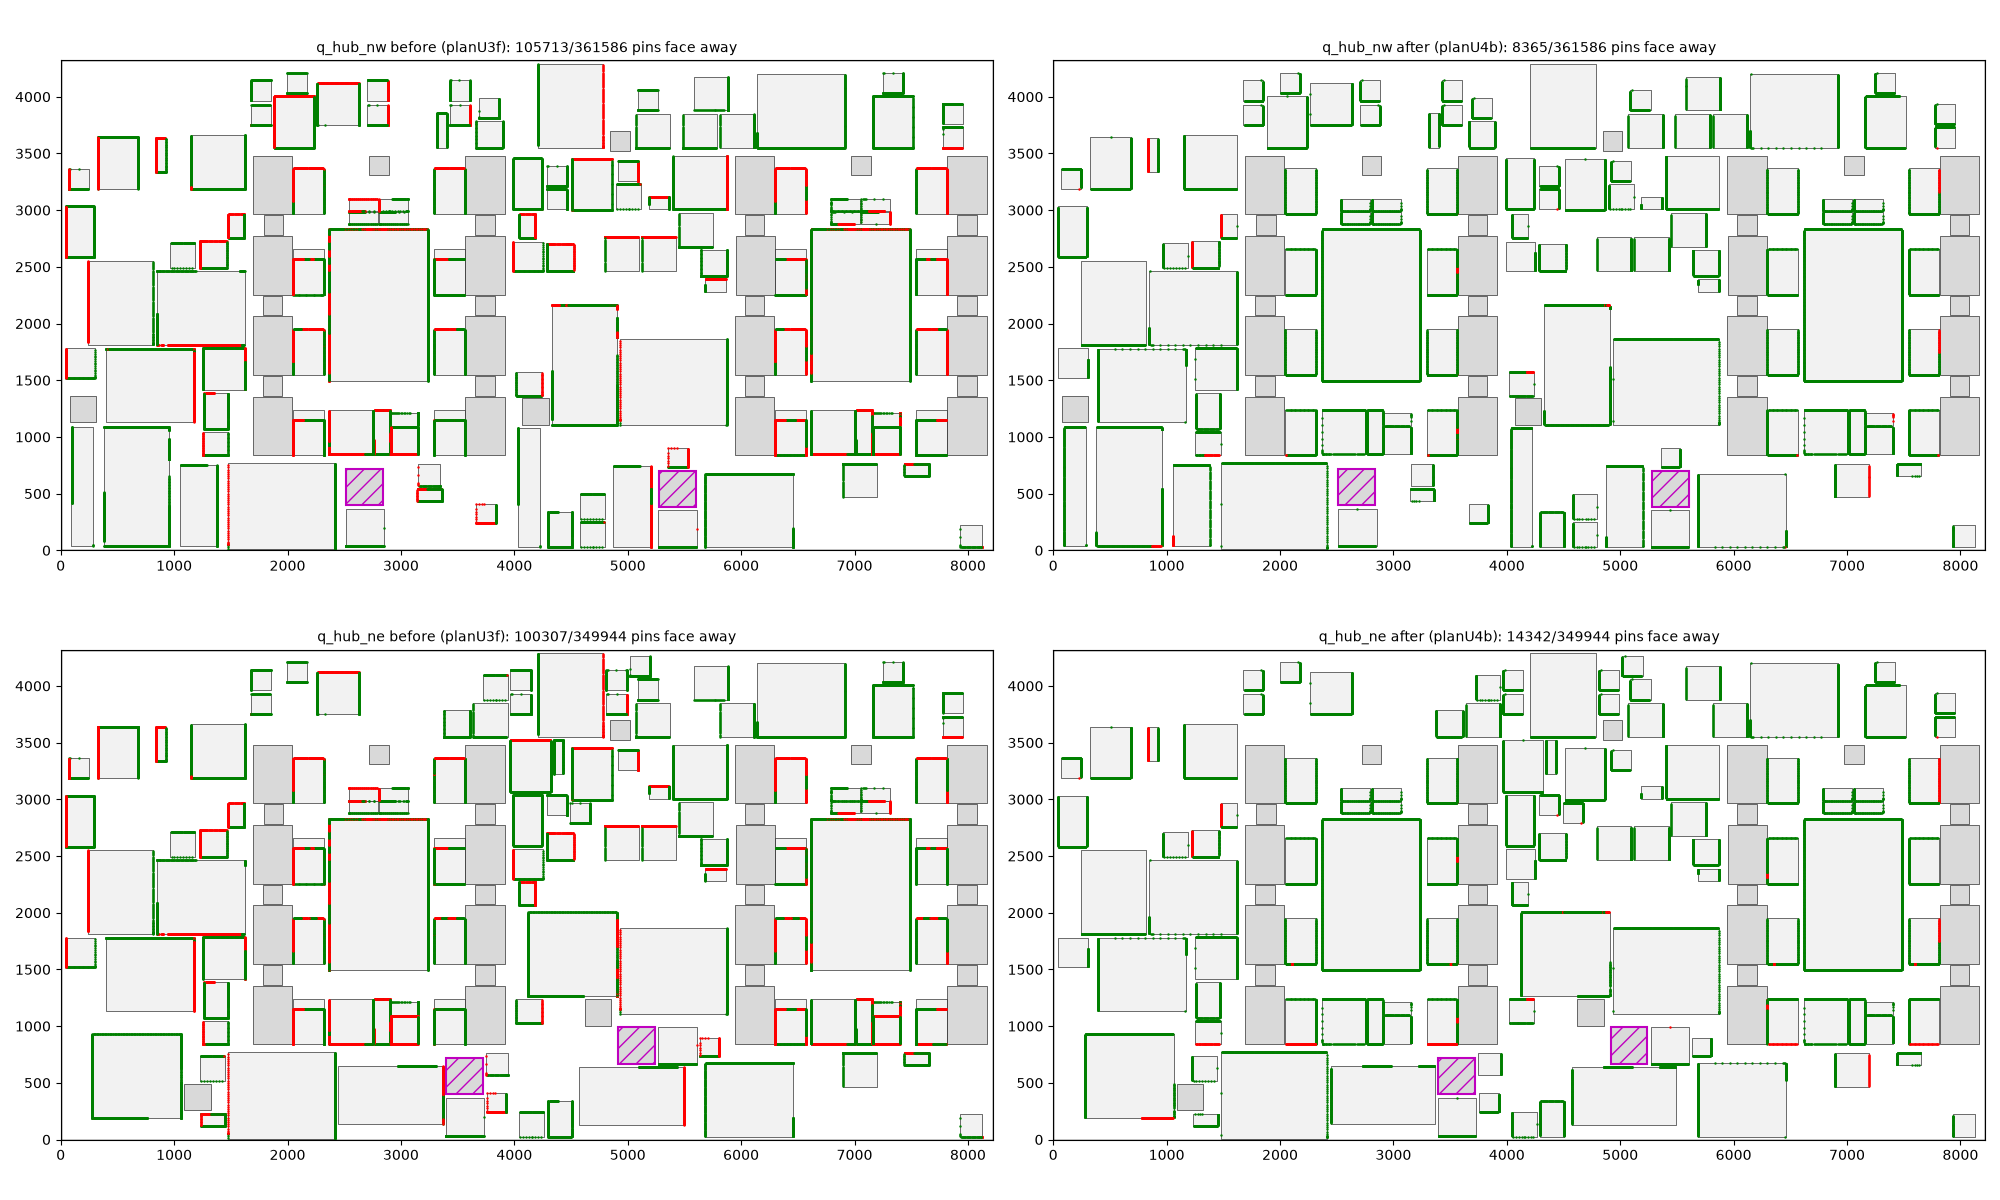
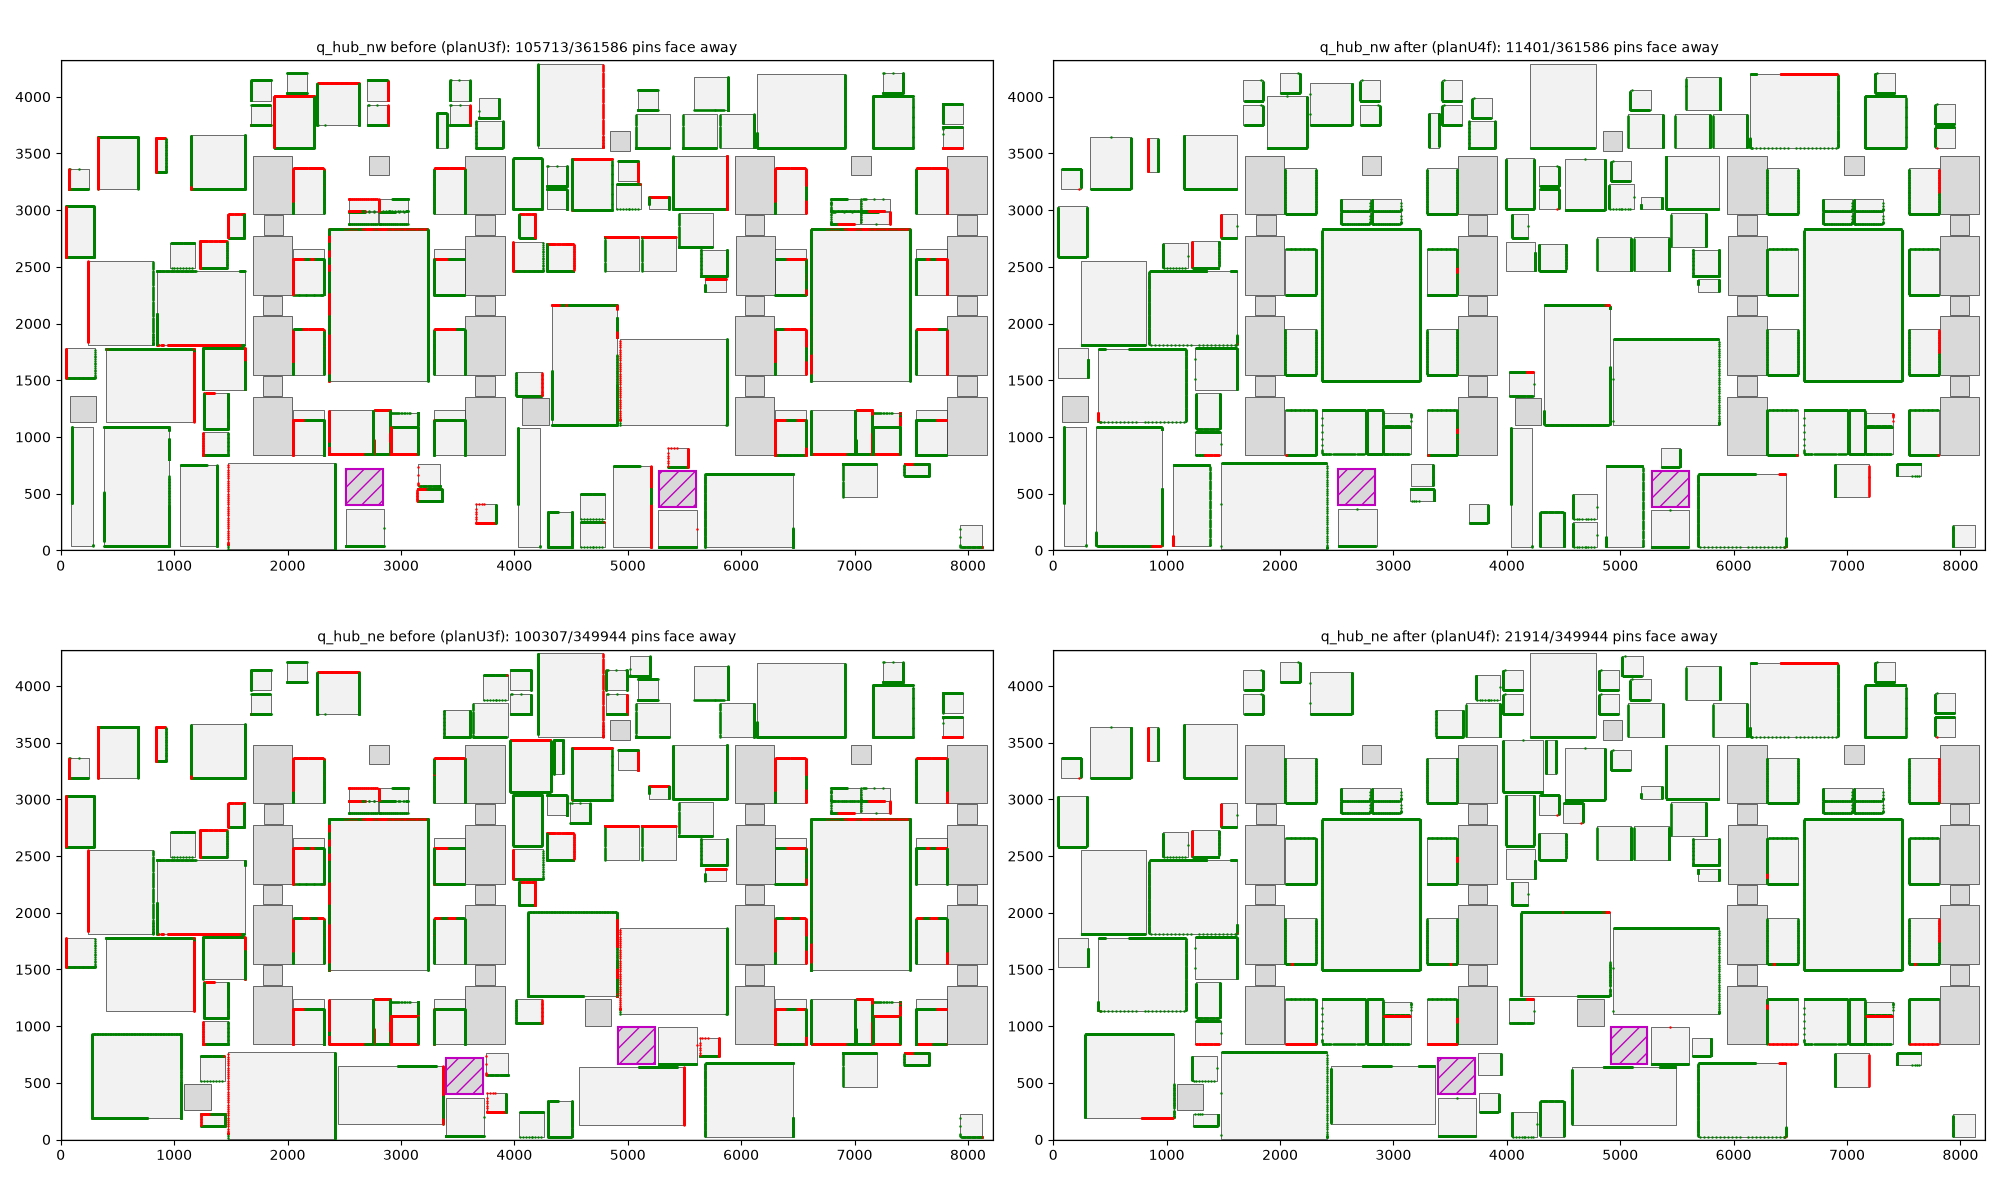
HBM-MU-QUAD-4: planU4f: strap pins at exact width, mirrors only on whole-pitch sides (0 off-grid orients); hub render U4f

Changed region(s): [[0.651, 0.5242, 0.868, 0.555], [0.651, 0.0308, 0.868, 0.0617]]

diff --git a/results/hbm_mu_quad_4/type_reduce.py b/results/hbm_mu_quad_4/type_reduce.py
@@ -392,7 +392,17 @@ def main():
             for lp, v in dirs.get((tn, hc["inst"]), {}).items():
                 d.setdefault(cport(hc["module"], base(lp)), []).extend(v)
             idirs.append(d)
+        # strap_* ID pins of the canonical (tied at the parent): exact width on the core face (rule B)
+        strap_keys = []
+        if straps.get(fn):
+            cons0 = dict(fam[fn]).get(rmod, {}).get("consts", {})
+            for k, v in strap_decl(cons0, straps[fn]).items():
+                bybase[k] = [f"{k}[{i}]" for i in range(v["width"])]; strap_keys.append(k)
+                ref_face[k] = min("SNWE", key=lambda f: sum(len(bybase[b_]) for b_ in bybase if ref_face.get(b_) == f))
         orient = [hc.get("orient", "R0") for _, hc, _ in mem]
+        # a mirror keeps pins on the plan tracks only when that outline side is a whole number of pitches
+        on = lambda L: abs(L / PITCH - round(L / PITCH)) < 1e-6  # noqa: E731
+        allowed = [o for o in ORIENTS if (on(w) or o not in ("MY", "R180")) and (on(h) or o not in ("MX", "R180"))]
         weight = [ninst[tn] for tn, _, _ in mem]
         faces = dict(ref_face)
         for _it in range(6):
@@ -412,7 +422,7 @@ def main():
                 def osc(o):
                     return sum(len(bybase[b]) * score(d[b], tface(o, faces[b])) for b in bybase if b in d)
                 cur = orient[i]
-                orient[i] = max(ORIENTS, key=lambda o: (osc(o) + (1e-6 if o == cur else 0)))
+                orient[i] = max(sorted(set(allowed) | {cur}), key=lambda o: (osc(o) + (1e-6 if o == cur else 0)))
         # capacity: spill lowest-gain ports to next best face
         fixed = collections.defaultdict(set)
         for p in clk_pins:
@@ -449,7 +459,8 @@ def main():
             names = [n for b in bybase if faces[b] == f for n in bybase[b]]
             # order along the face by mean partner tangent (fewer crossings), stable by name
             pins += place_face(names, f, w, h, set(), fixed[f])
-        assert sorted(p["name"] for p in pins) == sorted(cport(rmod, p["name"]) for p in ref), name
+        assert sorted(p["name"] for p in pins) == sorted([cport(rmod, p["name"]) for p in ref] +
+                                                         [n for k in strap_keys for n in bybase[k]]), name
         assert len({p["name"] for p in pins}) == len(pins), ("duplicate pin names", name)
         s = json.dumps(pins) + "\n"
         fnm = f"cores/{name}__{w:g}x{h:g}__canon.json"

diff --git a/results/hbm_mu_quad_4/render_hub.py b/results/hbm_mu_quad_4/render_hub.py
@@ -47,6 +47,6 @@ for col, pd in enumerate(plans):
                     py = p["y"] if o in ("R0", "MY") else h - p["y"]
                     A.plot(x0 + px, y0 + py, ".", ms=1.5, color="g" if ok else "r")
         A.set_xlim(0, W); A.set_ylim(0, H); A.set_aspect("equal")
-        A.set_title(f"{tn} {'before (planU3f)' if col == 0 else 'after (planU4b)'}: {bad}/{tot} pins face away", fontsize=10)
+        A.set_title(f"{tn} {'before (planU3f)' if col == 0 else 'after (planU4f)'}: {bad}/{tot} pins face away", fontsize=10)
 plt.tight_layout(); plt.savefig(a[2], dpi=100)
 print("wrote", a[2])
